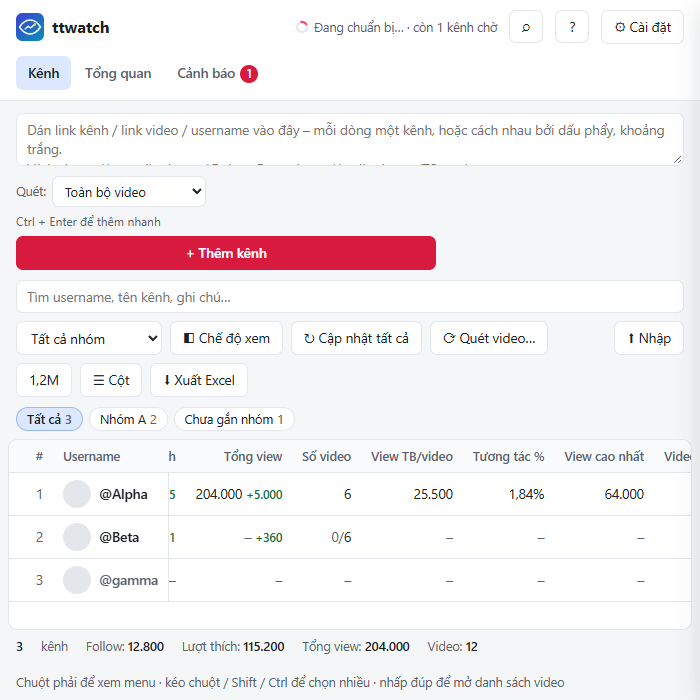
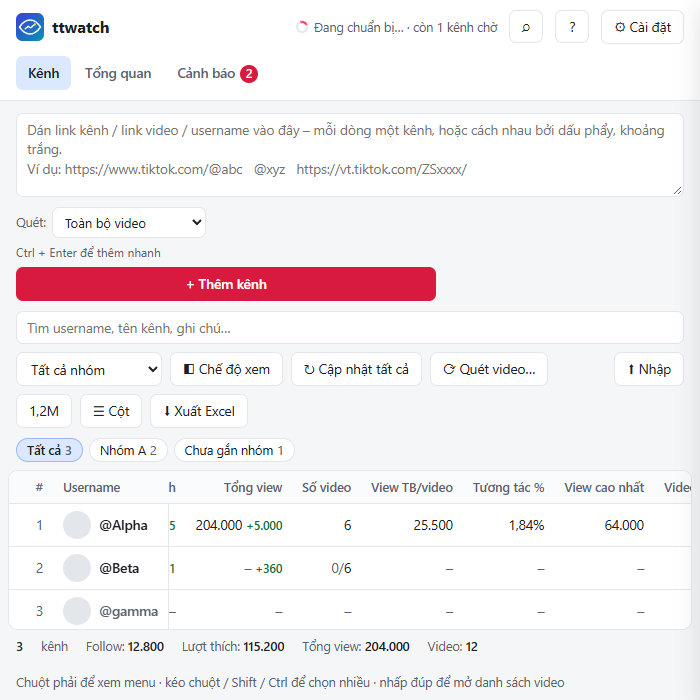
Label the compare chart axis in percent and stop the paste box collapsing on narrow windows. (#10)

diff --git a/static/charts.js b/static/charts.js
@@ -52,12 +52,13 @@ const Charts = (() => {
 
   /**
    * series: [{ name, points: [[ts, value], ...], color? }]
-   * opts: { height, fmt(value) -> text, empty }
+   * opts: { height, fmt(value) -> text, axisFmt(tick) -> text, empty }
    * Redraws on resize. Returns a dispose function.
    */
   function line(el, series, opts = {}) {
     const height = opts.height || 220;
     const fmt = opts.fmt || full;
+    const axisFmt = opts.axisFmt || short;
     el.classList.add("chart");
     el.style.position = "relative";
 
@@ -80,7 +81,7 @@ const Charts = (() => {
       let g = "";
       for (const t of ay.ticks) {
         g += `<line class="grid-l" x1="${L}" x2="${W - R}" y1="${Y(t)}" y2="${Y(t)}"/>`;
-        g += `<text class="axis" x="${L - 8}" y="${Y(t) + 4}" text-anchor="end">${short(t)}</text>`;
+        g += `<text class="axis" x="${L - 8}" y="${Y(t) + 4}" text-anchor="end">${axisFmt(t)}</text>`;
       }
       const nx = Math.max(2, Math.min(6, Math.floor((W - L - R) / 90)));
       for (let i = 0; i <= nx; i++) {

diff --git a/static/panels.js b/static/panels.js
@@ -379,7 +379,7 @@ async function paintCompare() {
   }));
   cmp.stop?.();
   const pctFmt = (v) => (v > 0 ? "+" : v < 0 ? "−" : "") + Math.abs(v).toFixed(1).replace(".", ",") + "%";
-  cmp.stop = Charts.line($("#cmpChart"), series, { fmt: cmp.pct ? pctFmt : plainNf, height: 280, label: "So sánh kênh" });
+  cmp.stop = Charts.line($("#cmpChart"), series, { fmt: cmp.pct ? pctFmt : plainNf, axisFmt: cmp.pct ? (v) => `${String(v).replace(".", ",")}%` : undefined, height: 280, label: "So sánh kênh" });
   $("#cmpLegend").innerHTML = series.map((s) => `<span><i style="background:${s.color}"></i>${esc(s.name)}</span>`).join("");
   $("#cmpTable").innerHTML =
     '<table class="mini"><tr><th>Kênh</th><th class="r">Hiện tại</th><th class="r">Đầu kỳ</th><th class="r">Thay đổi</th><th class="r">%</th></tr>' +

diff --git a/static/extra.css b/static/extra.css
@@ -241,7 +241,7 @@ dialog.settings .dlg-actions { position: sticky; bottom: -20px; margin: 12px -22
 .skip:focus { top: 8px; }
 
 @media (max-width: 720px) {
-  .add-box textarea { height: 84px; }
+  .add-box textarea { flex: none; height: 84px; } /* flex: 1 would collapse it once the box stacks */
 }
 .drawer:focus { outline: none; }
 

diff --git a/tests/test_ui.py b/tests/test_ui.py
@@ -234,6 +234,7 @@ class UiTest(unittest.TestCase):
             const ys = [...document.querySelectorAll('#cmpChart path.ln')].map(x => x.getAttribute('d').match(/^M[\d.]+,([\d.]+)/)[1]);
             return ys.length === 2 && ys[0] === ys[1];
         }""")
+        self.assertTrue(p.locator("#cmpChart text.axis", has_text="%").count())
         self.shot("compare")
         p.click("#cmpClose")
 

diff --git a/CHANGELOG.md b/CHANGELOG.md
@@ -6,6 +6,10 @@
 - *Cài đặt* is split into titled groups (scanning, auto-update, alerts, startup and updates, appearance, data) laid out in two columns on wide windows, and *Lưu* stays visible at the bottom while the dialog scrolls.
 - *Tăng nhanh nhất* in *Tổng quan* also shows each channel's current followers or views and the change in percent; the gainers in `GET /api/overview` gain `value` and `pct` (`null` when the starting value is 0).
 
+### Fixed
+- The compare chart's axis shows percentages in *% thay đổi* mode instead of bare numbers.
+- On narrow windows the box for pasting channels no longer collapses and cuts off its second example line.
+
 ### Added
 - **Standout video alert.** After an update, a video posted in the last 30 days that reaches 3 times the channel's median views (needs at least 5 videos) creates a ★ alert with its views and how many times the median it is, and shows in the tray like the other alerts. Each video alerts once, on the update that takes it over the bar. Set the multiple in *Cài đặt* (`alert_viral_x`, 0 = off).
 - *Cảnh báo* groups alerts by day (*Hôm nay*, *Hôm qua*, then the date), filters them by kind with chips, colors each kind's icon, and marks an alert read when you click it.
